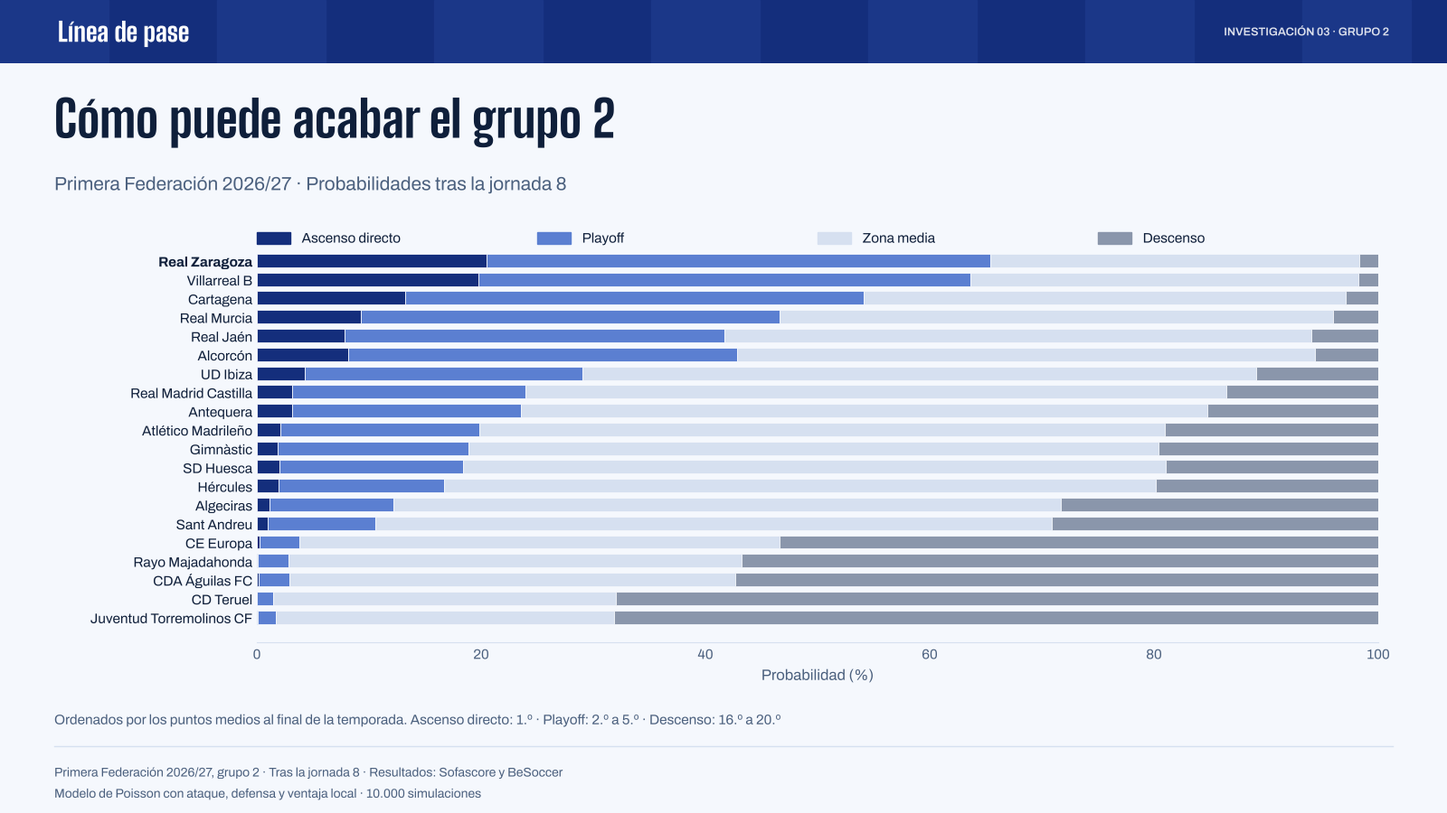
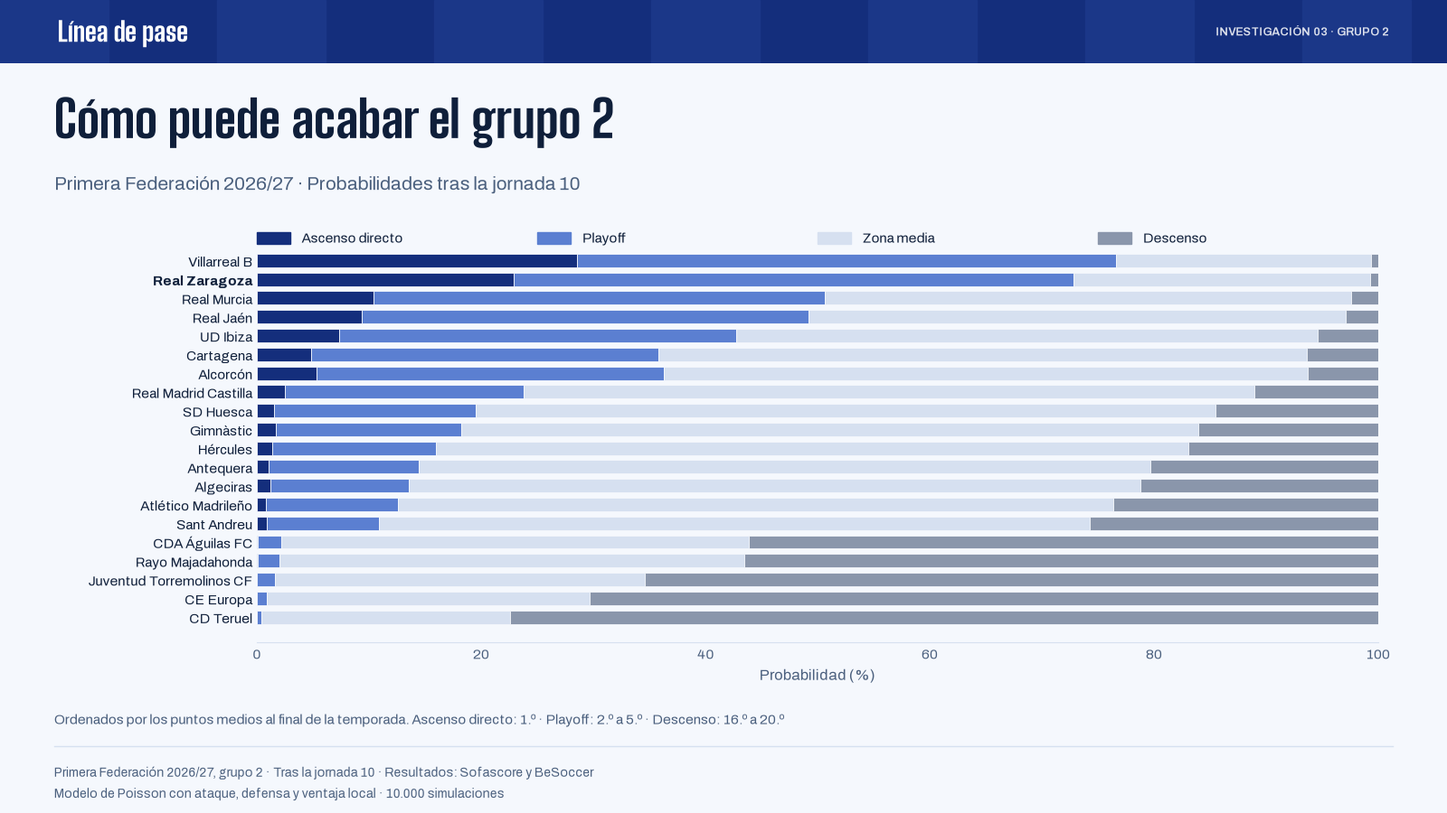
Actualiza simulación Monte Carlo tras J10

diff --git a/proyectos/real-zaragoza/simulacion.html b/proyectos/real-zaragoza/simulacion.html
@@ -7,8 +7,8 @@
 <!-- /Consentimiento de analítica -->
 <meta charset="utf-8">
 <meta name="viewport" content="width=device-width, initial-scale=1, viewport-fit=cover">
-<title>Simulación del grupo 2 (J8) · Línea de pase</title>
-<meta name="description" content="10.000 simulaciones del resto de la temporada del grupo 2 de Primera Federación: probabilidades de ascenso, playoff y descenso tras la jornada 8.">
+<title>Simulación del grupo 2 (J10) · Línea de pase</title>
+<meta name="description" content="10.000 simulaciones del resto de la temporada del grupo 2 de Primera Federación: probabilidades de ascenso, playoff y descenso tras la jornada 10.">
 <link rel="preconnect" href="https://fonts.googleapis.com">
 <link rel="preconnect" href="https://fonts.gstatic.com" crossorigin>
 <link rel="stylesheet" href="https://fonts.googleapis.com/css2?family=Archivo:wght@400;500;600;700&family=Big+Shoulders+Display:wght@700;800&display=swap">
@@ -22,34 +22,33 @@
 <script src="../../assets/experiencia.js?v=20261027visual4" defer></script>
 
 
-<meta property="og:title" content="Simulación del grupo 2 (J8)">
-<meta property="og:description" content="10.000 simulaciones del resto de la temporada del grupo 2 de Primera Federación: probabilidades de ascenso, playoff y descenso tras la jornada 8.">
-<meta property="og:image" content="https://lineadepase.com/assets/compartir/simulacion-grupo-2-social-resumen.jpg">
-<link rel="stylesheet" href="../../assets/investigacion.css?v=20261021fotos">
-<link rel="stylesheet" href="../../assets/fotografia-editorial.css?v=20261029mobile1">
-
-<meta name="imagen-editorial" content="proyectos/real-zaragoza/graficos/simulacion/compartir.png"><link rel="stylesheet" href="../../assets/ideas-editoriales.css?v=20261027a">
-<meta name="grafico-contexto" content="Datos hasta 2026-10-31 · Estadísticas de Sofascore y fuentes del club; goles anotados a partir de resúmenes. Detalle y límites en el análisis.">
+<link rel="stylesheet" href="../../assets/ideas-editoriales.css?v=20261027a">
+<meta name="grafico-contexto" content="Datos hasta 2026-10-31 · Sofascore y fuentes complementarias de xG; cobertura y método en el análisis.">
 <!-- SEO: generado por herramientas/actualizar_seo.py -->
-<link rel="canonical" href="https://lineadepase.com/proyectos/real-zaragoza/simulacion.html">
+<link rel="canonical" href="https://lineadepase.com/proyectos/real-zaragoza/grupo-2.html">
 <meta property="og:type" content="website">
 <meta property="og:locale" content="es_ES">
 <meta property="og:site_name" content="Línea de pase">
-
-
-<meta property="og:url" content="https://lineadepase.com/proyectos/real-zaragoza/simulacion.html">
-
-<meta property="og:image:type" content="image/jpeg">
+<meta property="og:title" content="Grupo 2 de Primera Federación · Línea de pase">
+<meta property="og:description" content="Los 20 equipos del grupo 2 de Primera Federación con xG, puntos esperados, tiros y posesión, con fuentes y cobertura documentadas.">
+<meta property="og:url" content="https://lineadepase.com/proyectos/real-zaragoza/grupo-2.html">
+<meta property="og:image" content="https://lineadepase.com/assets/compartir/proyectos-real-zaragoza-grupo-2.png">
+<meta property="og:image:type" content="image/png">
 <meta property="og:image:width" content="1200">
 <meta property="og:image:height" content="630">
-<meta property="og:image:alt" content="Simulación del grupo 2 (J8) · Línea de pase">
+<meta property="og:image:alt" content="Grupo 2 de Primera Federación · Línea de pase">
 <meta name="twitter:card" content="summary_large_image">
-<meta name="twitter:title" content="Simulación del grupo 2 (J8) · Línea de pase">
-<meta name="twitter:description" content="10.000 simulaciones del resto de la temporada del grupo 2 de Primera Federación: probabilidades de ascenso, playoff y descenso tras la jornada 8.">
-<meta name="twitter:image" content="https://lineadepase.com/assets/compartir/simulacion-grupo-2-social-resumen.jpg">
-<meta name="twitter:image:alt" content="Simulación del grupo 2 (J8) · Línea de pase">
-<script type="application/ld+json">{"@context": "https://schema.org", "@graph": [{"@type": "BreadcrumbList", "itemListElement": [{"@type": "ListItem", "position": 1, "name": "Inicio", "item": "https://lineadepase.com/"}, {"@type": "ListItem", "position": 2, "name": "Proyectos", "item": "https://lineadepase.com/proyectos/"}, {"@type": "ListItem", "position": 3, "name": "Real Zaragoza", "item": "https://lineadepase.com/proyectos/real-zaragoza/"}, {"@type": "ListItem", "position": 4, "name": "Simulación del grupo 2 (J8)", "item": "https://lineadepase.com/proyectos/real-zaragoza/simulacion.html"}]}, {"@type": "Article", "@id": "https://lineadepase.com/proyectos/real-zaragoza/simulacion.html#analisis", "headline": "Simulación del grupo 2 (J8)", "description": "10.000 simulaciones del resto de la temporada del grupo 2 de Primera Federación: probabilidades de ascenso, playoff y descenso tras la jornada 8.", "image": ["https://lineadepase.com/assets/compartir/simulacion-grupo-2-social-resumen.jpg"], "inLanguage": "es", "mainEntityOfPage": "https://lineadepase.com/proyectos/real-zaragoza/simulacion.html", "author": {"@type": "Person", "name": "Ángel Marqueta Alonso", "url": "https://lineadepase.com/sobre-mi/"}}]}</script>
+<meta name="twitter:title" content="Grupo 2 de Primera Federación · Línea de pase">
+<meta name="twitter:description" content="Los 20 equipos del grupo 2 de Primera Federación con xG, puntos esperados, tiros y posesión, con fuentes y cobertura documentadas.">
+<meta name="twitter:image" content="https://lineadepase.com/assets/compartir/proyectos-real-zaragoza-grupo-2.png">
+<meta name="twitter:image:alt" content="Grupo 2 de Primera Federación · Línea de pase">
+<script type="application/ld+json">{"@context": "https://schema.org", "@graph": [{"@type": "BreadcrumbList", "itemListElement": [{"@type": "ListItem", "position": 1, "name": "Inicio", "item": "https://lineadepase.com/"}, {"@type": "ListItem", "position": 2, "name": "Proyectos", "item": "https://lineadepase.com/proyectos/"}, {"@type": "ListItem", "position": 3, "name": "Real Zaragoza", "item": "https://lineadepase.com/proyectos/real-zaragoza/"}, {"@type": "ListItem", "position": 4, "name": "Grupo 2 de Primera Federación", "item": "https://lineadepase.com/proyectos/real-zaragoza/grupo-2.html"}]}, {"@type": "Article", "@id": "https://lineadepase.com/proyectos/real-zaragoza/grupo-2.html#analisis", "headline": "Grupo 2 de Primera Federación", "description": "Los 20 equipos del grupo 2 de Primera Federación con xG, puntos esperados, tiros y posesión, con fuentes y cobertura documentadas.", "image": ["https://lineadepase.com/assets/compartir/proyectos-real-zaragoza-grupo-2.png"], "inLanguage": "es", "mainEntityOfPage": "https://lineadepase.com/proyectos/real-zaragoza/grupo-2.html", "author": {"@type": "Person", "name": "Ángel Marqueta Alonso", "url": "https://lineadepase.com/sobre-mi/"}}]}</script>
 <!-- /SEO -->
+<meta property="og:title" content="Simulación del grupo 2 (J10)">
+<meta property="og:description" content="10.000 simulaciones del resto de la temporada del grupo 2 de Primera Federación: probabilidades de ascenso, playoff y descenso tras la jornada 10.">
+<meta property="og:image" content="https://lineadepase.com/proyectos/real-zaragoza/graficos/simulacion/compartir.png">
+<link rel="stylesheet" href="../../assets/investigacion.css?v=20261021fotos">
+<link rel="stylesheet" href="../../assets/fotografia-editorial.css?v=20261021b">
 </head>
 <body>
 <header class="cabecera">
@@ -62,47 +61,48 @@
   </div>
 </header>
 
-<main class="envoltorio"><nav class="acciones-articulo" aria-label="Compartir o imprimir este análisis"><button class="boton" type="button" data-compartir-pagina>Compartir análisis</button><a class="boton" href="graficos/simulacion/compartir.png" target="_blank" rel="noopener">Abrir imagen para compartir</a><button class="boton" type="button" data-imprimir-pagina>Imprimir / Guardar en PDF</button><span class="estado-acciones-articulo" role="status" aria-live="polite"></span></nav><p class="migas"><a href="../">Proyectos</a> / <a href="./">Real Zaragoza 2026/27</a> / <a href="grupo-2.html">Primera Federación · Grupo 2</a> / Simulación</p>
+<main class="envoltorio">
+  <p class="migas"><a href="../index.html">Proyectos</a> / <a href="index.html">Real Zaragoza 2026/27</a> / <a href="grupo-2.html">Primera Federación · Grupo 2</a> / Simulación</p>
   <nav class="pestanas" aria-label="Secciones del seguimiento"><a href="./">Resumen</a><a href="previa.html">Previa</a><a href="evolucion.html">Evolución</a><a href="plantilla.html">Plantilla</a><a href="jornadas.html">Jornadas</a><a href="grupo-2.html" aria-current="page">Primera Federación · Grupo 2</a></nav>
   <section class="cab-proyecto">
     <p class="etiqueta">Investigación · Simulación Monte Carlo</p>
     <h1>¿Y si el grupo 2 se jugara 10.000 veces?</h1>
-    <p class="entradilla">Este estudio simula 10.000 veces el resto de la temporada de Primera Federación con un modelo de goles ajustado a los resultados. Tras la jornada 8, el Real Zaragoza acaba entre los cinco primeros en el 65 % de las simulaciones.</p>
+    <p class="entradilla">Este estudio simula 10.000 veces el resto de la temporada de Primera Federación con un modelo de goles ajustado a los resultados. Tras la jornada 10, el Real Zaragoza acaba entre los cinco primeros en el 73 % de las simulaciones.</p>
     <dl class="ficha-tecnica">
       <div><dt>Pregunta</dt><dd>¿Qué probabilidad tiene cada equipo de ascender, jugar el playoff o descender?</dd></div>
-      <div><dt>Datos</dt><dd>Resultados de los 80 partidos jugados · 300 partidos pendientes</dd></div>
+      <div><dt>Datos</dt><dd>Resultados de los 100 partidos jugados · 280 partidos pendientes</dd></div>
       <div><dt>Herramientas</dt><dd>Python (pandas, NumPy, SciPy) · <a href="https://github.com/lineadepase/lineadepase.github.io/tree/main/analisis/grupo2-simulacion">código y datos</a></dd></div>
     </dl>
   </section>
 
-  <figure class="figura foto foto-cabecera"><img src="graficos/simulacion/portada_ia.jpg" width="1122" height="1402" alt="Un león con la camiseta azul y blanca sube una escalera de 20 peldaños numerados hacia la cima, rodeado de dados." loading="lazy" style="max-width:min(560px,100%);margin-inline:auto" srcset="../../assets/adaptadas/portada_ia-7744f90f1a-480.webp 480w, ../../assets/adaptadas/portada_ia-7744f90f1a-800.webp 800w, ../../assets/adaptadas/portada_ia-7744f90f1a-1122.webp 1122w" sizes="(max-width: 640px) calc(100vw - 48px), 800px"><figcaption>Ilustración generada con IA.</figcaption></figure>
+  <figure class="figura foto foto-cabecera"><img src="graficos/simulacion/portada_ia.jpg" width="1122" height="1402" alt="Un león con la camiseta azul y blanca sube una escalera de 20 peldaños numerados hacia la cima, rodeado de dados." loading="lazy" style="max-width:min(560px,100%);margin-inline:auto"><figcaption>Imagen recreada con IA.</figcaption></figure>
 
   <section class="seccion lectura">
     <p class="etiqueta">Resultados</p>
-    <h2>Favorito, pero lejos de estar decidido</h2>
-    <p>El Zaragoza termina primero en el <strong>20 %</strong> de las simulaciones y entre el segundo y el quinto en el <strong>45 %</strong>. Es el equipo con más opciones del grupo, pero en el 35 % de las temporadas simuladas se queda fuera de los cinco primeros. El riesgo de descenso es del 2 %.</p>
-    <p>En 8 de cada 10 simulaciones acaba con entre 52 y 75 puntos. En aquel corte quedaban 30 jornadas por jugar; la tabla reflejaba un tramo todavía corto de la temporada.</p>
+    <h2>Todo por decidir</h2>
+    <p>El Zaragoza termina primero en el <strong>23 %</strong> de las simulaciones y entre el segundo y el quinto en el <strong>50 %</strong>. Aun así, en el 27 % de las temporadas simuladas se queda fuera de los cinco primeros. El riesgo de descenso es del 1 %.</p>
+    <p>En 8 de cada 10 simulaciones acaba con entre 54 y 76 puntos. Quedan 28 jornadas: la tabla de hoy cuenta, pero todavía queda casi toda la temporada.</p>
   </section>
 
-  <figure class="figura"><img src="graficos/simulacion/05_puesto_zaragoza_web.png" width="1600" height="900" alt="Probabilidad de cada puesto final del Real Zaragoza. El más probable es el 1.º, con un 20 %." srcset="../../assets/adaptadas/05_puesto_zaragoza_web-5961b46716-480.webp 480w, ../../assets/adaptadas/05_puesto_zaragoza_web-5961b46716-800.webp 800w, ../../assets/adaptadas/05_puesto_zaragoza_web-5961b46716-1200.webp 1200w, ../../assets/adaptadas/05_puesto_zaragoza_web-5961b46716-1600.webp 1600w" sizes="(max-width: 640px) calc(100vw - 48px), 800px"><figcaption>Probabilidad de cada puesto final del Real Zaragoza.</figcaption></figure>
+  <figure class="figura"><img src="graficos/simulacion/05_puesto_zaragoza_web.png" width="1600" height="900" alt="Probabilidad de cada puesto final del Real Zaragoza. El más probable es el 1.º, con un 23 %."><figcaption>Probabilidad de cada puesto final del Real Zaragoza.</figcaption></figure>
 
   <section class="seccion lectura">
     <h2>Cómo ha cambiado</h2>
-    <p>Con los datos de la jornada 3, la probabilidad de acabar entre los cinco primeros era del 30 %. Los resultados desde entonces la han llevado al 65 %.</p>
+    <p>Con los datos de la jornada 3, la probabilidad de acabar entre los cinco primeros era del 30 %. Los resultados desde entonces la han llevado al 73 %.</p>
   </section>
 
-  <figure class="figura"><img loading="lazy" src="graficos/simulacion/03_evolucion_zaragoza_instagram.png" width="1080" height="1350" alt="Evolución jornada a jornada de la probabilidad del Real Zaragoza de ascender directamente y de acabar entre los cinco primeros." style="max-width:min(560px,100%);margin-inline:auto" srcset="../../assets/adaptadas/03_evolucion_zaragoza_instagram-90a578dab7-480.webp 480w, ../../assets/adaptadas/03_evolucion_zaragoza_instagram-90a578dab7-800.webp 800w, ../../assets/adaptadas/03_evolucion_zaragoza_instagram-90a578dab7-1080.webp 1080w" sizes="(max-width: 640px) calc(100vw - 48px), 800px"></figure>
+  <figure class="figura"><img loading="lazy" src="graficos/simulacion/03_evolucion_zaragoza_instagram.png" width="1080" height="1350" alt="Evolución jornada a jornada de la probabilidad del Real Zaragoza de ascender directamente y de acabar entre los cinco primeros." style="max-width:min(560px,100%);margin-inline:auto"></figure>
 
-  <figure class="figura"><img loading="lazy" src="graficos/simulacion/04_veinte_equipos_web.png" width="1600" height="900" alt="Probabilidades de ascenso directo, playoff, zona media y descenso de los 20 equipos del grupo 2." srcset="../../assets/adaptadas/04_veinte_equipos_web-24b0aca208-480.webp 480w, ../../assets/adaptadas/04_veinte_equipos_web-24b0aca208-800.webp 800w, ../../assets/adaptadas/04_veinte_equipos_web-24b0aca208-1200.webp 1200w, ../../assets/adaptadas/04_veinte_equipos_web-24b0aca208-1600.webp 1600w" sizes="(max-width: 640px) calc(100vw - 48px), 800px"><figcaption>Los 20 equipos, ordenados por los puntos medios al final de la temporada.</figcaption></figure>
+  <figure class="figura"><img loading="lazy" src="graficos/simulacion/04_veinte_equipos_web.png" width="1600" height="900" alt="Probabilidades de ascenso directo, playoff, zona media y descenso de los 20 equipos del grupo 2."><figcaption>Los 20 equipos, ordenados por los puntos medios al final de la temporada.</figcaption></figure>
 
-  <div class="tabla-editorial" role="region" aria-label="Probabilidades de los 20 equipos, tabla desplazable" tabindex="0"><table><caption>Probabilidades al final de la temporada</caption><thead><tr><th scope="col" class="num">#</th><th scope="col">Equipo</th><th scope="col" class="num">Puntos medios</th><th scope="col" class="num">Ascenso directo</th><th scope="col" class="num">Playoff</th><th scope="col" class="num">Descenso</th></tr></thead><tbody><tr class="destacada"><td class="num">1</td><th scope="row">Real Zaragoza</th><td class="num">63,7</td><td class="num">20 %</td><td class="num">45 %</td><td class="num">2 %</td></tr><tr><td class="num">2</td><th scope="row">Villarreal B</th><td class="num">63,4</td><td class="num">20 %</td><td class="num">44 %</td><td class="num">2 %</td></tr><tr><td class="num">3</td><th scope="row">Cartagena</th><td class="num">61,0</td><td class="num">13 %</td><td class="num">41 %</td><td class="num">3 %</td></tr><tr><td class="num">4</td><th scope="row">Real Murcia</th><td class="num">59,7</td><td class="num">9 %</td><td class="num">37 %</td><td class="num">4 %</td></tr><tr><td class="num">5</td><th scope="row">Real Jaén</th><td class="num">58,3</td><td class="num">8 %</td><td class="num">34 %</td><td class="num">6 %</td></tr><tr><td class="num">6</td><th scope="row">Alcorcón</th><td class="num">58,3</td><td class="num">8 %</td><td class="num">35 %</td><td class="num">6 %</td></tr><tr><td class="num">7</td><th scope="row">UD Ibiza</th><td class="num">55,4</td><td class="num">4 %</td><td class="num">25 %</td><td class="num">11 %</td></tr><tr><td class="num">8</td><th scope="row">Real Madrid Castilla</th><td class="num">53,9</td><td class="num">3 %</td><td class="num">21 %</td><td class="num">14 %</td></tr><tr><td class="num">9</td><th scope="row">Antequera</th><td class="num">53,7</td><td class="num">3 %</td><td class="num">20 %</td><td class="num">15 %</td></tr><tr><td class="num">10</td><th scope="row">Atlético Madrileño</th><td class="num">52,2</td><td class="num">2 %</td><td class="num">18 %</td><td class="num">19 %</td></tr><tr><td class="num">11</td><th scope="row">Gimnàstic</th><td class="num">52,1</td><td class="num">2 %</td><td class="num">17 %</td><td class="num">20 %</td></tr><tr><td class="num">12</td><th scope="row">SD Huesca</th><td class="num">52,0</td><td class="num">2 %</td><td class="num">16 %</td><td class="num">19 %</td></tr><tr><td class="num">13</td><th scope="row">Hércules</th><td class="num">51,7</td><td class="num">2 %</td><td class="num">15 %</td><td class="num">20 %</td></tr><tr><td class="num">14</td><th scope="row">Algeciras</th><td class="num">49,6</td><td class="num">1 %</td><td class="num">11 %</td><td class="num">28 %</td></tr><tr><td class="num">15</td><th scope="row">Sant Andreu</th><td class="num">48,9</td><td class="num">1 %</td><td class="num">10 %</td><td class="num">29 %</td></tr><tr><td class="num">16</td><th scope="row">CE Europa</th><td class="num">43,7</td><td class="num"><1 %</td><td class="num">3 %</td><td class="num">53 %</td></tr><tr><td class="num">17</td><th scope="row">Rayo Majadahonda</th><td class="num">42,8</td><td class="num"><1 %</td><td class="num">3 %</td><td class="num">57 %</td></tr><tr><td class="num">18</td><th scope="row">CDA Águilas FC</th><td class="num">42,7</td><td class="num"><1 %</td><td class="num">3 %</td><td class="num">57 %</td></tr><tr><td class="num">19</td><th scope="row">CD Teruel</th><td class="num">40,2</td><td class="num"><1 %</td><td class="num">1 %</td><td class="num">68 %</td></tr><tr><td class="num">20</td><th scope="row">Juventud Torremolinos CF</th><td class="num">40,0</td><td class="num"><1 %</td><td class="num">2 %</td><td class="num">68 %</td></tr></tbody></table></div>
+  <div class="tabla-editorial" role="region" aria-label="Probabilidades de los 20 equipos, tabla desplazable" tabindex="0"><table><caption>Probabilidades al final de la temporada</caption><thead><tr><th scope="col" class="num">#</th><th scope="col">Equipo</th><th scope="col" class="num">Puntos medios</th><th scope="col" class="num">Ascenso directo</th><th scope="col" class="num">Playoff</th><th scope="col" class="num">Descenso</th></tr></thead><tbody><tr><td class="num">1</td><th scope="row">Villarreal B</th><td class="num">66,2</td><td class="num">29 %</td><td class="num">48 %</td><td class="num">1 %</td></tr><tr class="destacada"><td class="num">2</td><th scope="row">Real Zaragoza</th><td class="num">65,0</td><td class="num">23 %</td><td class="num">50 %</td><td class="num">1 %</td></tr><tr><td class="num">3</td><th scope="row">Real Murcia</th><td class="num">60,4</td><td class="num">10 %</td><td class="num">40 %</td><td class="num">2 %</td></tr><tr><td class="num">4</td><th scope="row">Real Jaén</th><td class="num">60,0</td><td class="num">9 %</td><td class="num">40 %</td><td class="num">3 %</td></tr><tr><td class="num">5</td><th scope="row">UD Ibiza</th><td class="num">58,4</td><td class="num">7 %</td><td class="num">35 %</td><td class="num">5 %</td></tr><tr><td class="num">6</td><th scope="row">Cartagena</th><td class="num">57,0</td><td class="num">5 %</td><td class="num">31 %</td><td class="num">6 %</td></tr><tr><td class="num">7</td><th scope="row">Alcorcón</th><td class="num">57,0</td><td class="num">5 %</td><td class="num">31 %</td><td class="num">6 %</td></tr><tr><td class="num">8</td><th scope="row">Real Madrid Castilla</th><td class="num">54,2</td><td class="num">3 %</td><td class="num">21 %</td><td class="num">11 %</td></tr><tr><td class="num">9</td><th scope="row">SD Huesca</th><td class="num">52,8</td><td class="num">2 %</td><td class="num">18 %</td><td class="num">14 %</td></tr><tr><td class="num">10</td><th scope="row">Gimnàstic</th><td class="num">52,4</td><td class="num">2 %</td><td class="num">17 %</td><td class="num">16 %</td></tr><tr><td class="num">11</td><th scope="row">Hércules</th><td class="num">51,9</td><td class="num">1 %</td><td class="num">15 %</td><td class="num">17 %</td></tr><tr><td class="num">12</td><th scope="row">Antequera</th><td class="num">51,2</td><td class="num">1 %</td><td class="num">13 %</td><td class="num">20 %</td></tr><tr><td class="num">13</td><th scope="row">Algeciras</th><td class="num">50,8</td><td class="num">1 %</td><td class="num">12 %</td><td class="num">21 %</td></tr><tr><td class="num">14</td><th scope="row">Atlético Madrileño</th><td class="num">50,2</td><td class="num">1 %</td><td class="num">12 %</td><td class="num">24 %</td></tr><tr><td class="num">15</td><th scope="row">Sant Andreu</th><td class="num">49,5</td><td class="num">1 %</td><td class="num">10 %</td><td class="num">26 %</td></tr><tr><td class="num">16</td><th scope="row">CDA Águilas FC</th><td class="num">43,0</td><td class="num"><1 %</td><td class="num">2 %</td><td class="num">56 %</td></tr><tr><td class="num">17</td><th scope="row">Rayo Majadahonda</th><td class="num">42,8</td><td class="num"><1 %</td><td class="num">2 %</td><td class="num">57 %</td></tr><tr><td class="num">18</td><th scope="row">Juventud Torremolinos CF</th><td class="num">41,1</td><td class="num"><1 %</td><td class="num">2 %</td><td class="num">65 %</td></tr><tr><td class="num">19</td><th scope="row">CE Europa</th><td class="num">39,9</td><td class="num"><1 %</td><td class="num">1 %</td><td class="num">70 %</td></tr><tr><td class="num">20</td><th scope="row">CD Teruel</th><td class="num">38,3</td><td class="num">0 %</td><td class="num"><1 %</td><td class="num">77 %</td></tr></tbody></table></div>
 
   <section class="seccion lectura">
     <p class="etiqueta">Método</p>
     <h2>Un modelo de goles y 10.000 temporadas</h2>
     <p>Cada equipo tiene una fuerza de ataque y otra de defensa, y el local juega con ventaja. Los goles de cada equipo en un partido siguen una distribución de Poisson cuya media depende de su ataque, de la defensa del rival y de quién juega en casa. Es el modelo clásico de Maher, el punto de partida de casi todos los modelos de resultados.</p>
-    <p>Con 8 jornadas cada equipo ha jugado 8 partidos, y una racha corta puede engañar. Por eso las fuerzas se acercan a la media del grupo salvo que los resultados lo justifiquen. Cuánto se acercan se decide con validación cruzada: el modelo se ajusta dejando fuera una jornada cada vez y se elige la opción que mejor predice la jornada que falta. La respuesta fue acercarlas mucho: a estas alturas, los resultados dicen poco de la fuerza real de cada equipo.</p>
-    <p>En cada simulación se sortean unas fuerzas dentro de su margen de incertidumbre, se juegan los 300 partidos pendientes y la tabla se ordena con el reglamento de la competición: puntos, puntos y diferencia de goles entre los empatados, diferencia general y goles a favor. Antes de simular, el programa comprueba que los resultados reproducen exactamente la clasificación publicada tras la jornada 8; si no, se detiene.</p>
+    <p>Con 10 jornadas cada equipo ha jugado 10 partidos, y una racha corta puede engañar. Por eso las fuerzas se acercan a la media del grupo salvo que los resultados lo justifiquen. Cuánto se acercan se decide con validación cruzada: el modelo se ajusta dejando fuera una jornada cada vez y se elige la opción que mejor predice la jornada que falta. La respuesta fue acercarlas mucho: a estas alturas, los resultados dicen poco de la fuerza real de cada equipo.</p>
+    <p>En cada simulación se sortean unas fuerzas dentro de su margen de incertidumbre, se juegan los 280 partidos pendientes y la tabla se ordena con el reglamento de la competición: puntos, puntos y diferencia de goles entre los empatados, diferencia general y goles a favor. Antes de simular, el programa comprueba que los resultados reproducen exactamente la clasificación publicada tras la jornada 10; si no, se detiene.</p>
     <h2>Lo que la simulación no sabe</h2>
     <ul>
       <li>No sabe de lesiones, fichajes, sanciones ni cambios de entrenador.</li>
@@ -110,7 +110,7 @@
       <li>El juego limpio y el partido de desempate no se pueden simular: si todo lo demás coincide, se sortea.</li>
       <li>Una probabilidad no es un pronóstico: un 20 % ocurre una de cada cinco veces.</li>
     </ul>
-    <p>Esta simulación refleja la clasificación tras la jornada 8 y no incorpora la jornada 9.</p>
+    <p>Se actualiza después de cada jornada.</p>
   </section>
 
   <section class="seccion lectura">
@@ -118,9 +118,9 @@
     <h2>Datos, código y comprobaciones</h2>
     <p>Siete pruebas automáticas verifican el cálculo de la clasificación, los desempates a dos y a tres, las probabilidades de cada resultado y que el modelo distingue a un equipo fuerte en una liga inventada.</p>
     <p><a class="boton" href="https://github.com/lineadepase/lineadepase.github.io/tree/main/analisis/grupo2-simulacion">Ver el código</a> · <a href="graficos/simulacion/probabilidades.csv" download>Descargar las probabilidades (CSV)</a></p>
-    <p>Resultados: Sofascore, contrastados con la clasificación de BeSoccer tras cada jornada. Reglamento: <a href="https://rfef.es/sites/default/files/2026-06/2._CNL_Primera_Federacion_FINAL.pdf">normas de competición de Primera Federación 2026/27</a> (ascenso del primero, playoff del segundo al quinto y descenso del 16.º al 20.º).</p>
+    <p>Resultados: Sofascore en las jornadas con datos estadísticos; los marcadores que faltan se completan con el archivo de resultados del seguimiento del Real Zaragoza y se contrastan con la <a href="https://rfef.es/es/noticias/viernes-de-goles-en-el-inicio-de-la-decima-jornada">RFEF</a>. Reglamento: <a href="https://rfef.es/sites/default/files/2026-06/2._CNL_Primera_Federacion_FINAL.pdf">normas de competición de Primera Federación 2026/27</a> (ascenso del primero, playoff del segundo al quinto y descenso del 16.º al 20.º).</p>
   </section>
-<!-- exploracion --><aside class="envoltorio lecturas" aria-labelledby="lecturas-relacionadas"><h2 id="lecturas-relacionadas">Sigue explorando</h2><div class="enlaces"><a class="boton" href="../../marcador-a-ciegas/">Probar el marcador a ciegas</a><a class="boton" href="../../partidos-espejo/">Explorar partidos espejo</a><a class="boton" href="../../balance-de-preguntas/">Ver el balance de preguntas</a><a class="boton" href="../../preguntas-del-partido/">Revisar las preguntas del partido</a><a class="boton" href="evolucion.html">Poner el partido en contexto</a><a class="boton" href="../../reloj-del-marcador/">Ver el tiempo de marcador</a><a class="boton" href="../../archivo/">Más análisis en el archivo</a><a class="boton" href="../../conceptos/">Entender los conceptos</a></div></aside><!-- /exploracion --></main>
+</main>
 
 <footer class="pie">
   <div class="envoltorio">

diff --git a/analisis/grupo2-simulacion/codigo/datos.py b/analisis/grupo2-simulacion/codigo/datos.py
@@ -5,6 +5,8 @@ La simulación solo usa resultados: quién jugó contra quién, en qué campo y
 cuántos goles marcó cada uno. Los lee del archivo que ya mantiene el
 seguimiento del Real Zaragoza (analisis/real-zaragoza/datos/entrada/
 grupo2_partidos.csv), del que aprovecha únicamente las columnas del resultado.
+Cuando la fuente estadística aún no tiene una jornada, completa sus marcadores
+con grupo2_resultados.csv.
 
 Antes de simular, compruebo que la clasificación que sale de esos resultados
 coincide punto por punto con la clasificación publicada tras la última jornada
@@ -21,8 +23,9 @@ RAIZ_WEB = Path(__file__).resolve().parents[3]
 ENTRADA = RAIZ_WEB / "analisis" / "real-zaragoza" / "datos" / "entrada"
 
 
-def leer_resultados(ruta=ENTRADA / "grupo2_partidos.csv"):
-    """Una fila por partido jugado, desde el punto de vista del equipo local."""
+def leer_resultados(ruta=ENTRADA / "grupo2_partidos.csv",
+                    ruta_resultados=ENTRADA / "grupo2_resultados.csv"):
+    """Resultados disponibles, completando jornadas ausentes sin duplicarlas."""
     filas = pd.read_csv(ruta)
     locales = filas[filas.sede == "Casa"]
     partidos = pd.DataFrame({
@@ -32,7 +35,29 @@ def leer_resultados(ruta=ENTRADA / "grupo2_partidos.csv"):
         "visitante": locales.rival,
         "goles_local": locales.goles_favor.astype(int),
         "goles_visitante": locales.goles_contra.astype(int),
-    }).sort_values(["jornada", "fecha", "local"]).reset_index(drop=True)
+    })
+
+    # Sofascore aún puede no ofrecer las estadísticas de una jornada recién
+    # terminada. El modelo solo necesita marcador y localía, así que incorpora
+    # los resultados de las jornadas posteriores a la última jornada estadística.
+    if ruta_resultados.exists():
+        resultados = pd.read_csv(ruta_resultados)
+        corte = int(partidos.jornada.max()) if not partidos.empty else 0
+        posteriores = resultados[resultados.jornada.astype(int) > corte]
+        if not posteriores.empty:
+            complementarios = pd.DataFrame({
+                "jornada": posteriores.jornada.astype(int),
+                "fecha": posteriores.fecha,
+                "local": posteriores.local,
+                "visitante": posteriores.visitante,
+                "goles_local": posteriores.goles_local.astype(int),
+                "goles_visitante": posteriores.goles_visitante.astype(int),
+            })
+            partidos = pd.concat([partidos, complementarios], ignore_index=True)
+
+    duplicados = partidos.duplicated(["jornada", "local", "visitante"])
+    assert not duplicados.any(), f"Hay partidos duplicados: {partidos.loc[duplicados].to_dict('records')}"
+    partidos = partidos.sort_values(["jornada", "fecha", "local"]).reset_index(drop=True)
     return partidos
 
 

diff --git a/analisis/grupo2-simulacion/codigo/web.py b/analisis/grupo2-simulacion/codigo/web.py
@@ -81,7 +81,7 @@ def main():
     </dl>
   </section>
 
-  <figure class="figura foto foto-cabecera"><img src="graficos/simulacion/portada_ia.jpg" width="1122" height="1402" alt="Un león con la camiseta azul y blanca sube una escalera de 20 peldaños numerados hacia la cima, rodeado de dados." loading="lazy" style="max-width:min(560px,100%);margin-inline:auto"><figcaption>Ilustración generada con IA.</figcaption></figure>
+  <figure class="figura foto foto-cabecera"><img src="graficos/simulacion/portada_ia.jpg" width="1122" height="1402" alt="Un león con la camiseta azul y blanca sube una escalera de 20 peldaños numerados hacia la cima, rodeado de dados." loading="lazy" style="max-width:min(560px,100%);margin-inline:auto"><figcaption>Imagen recreada con IA.</figcaption></figure>
 
   <section class="seccion lectura">
     <p class="etiqueta">Resultados</p>
@@ -124,7 +124,7 @@ def main():
     <h2>Datos, código y comprobaciones</h2>
     <p>Siete pruebas automáticas verifican el cálculo de la clasificación, los desempates a dos y a tres, las probabilidades de cada resultado y que el modelo distingue a un equipo fuerte en una liga inventada.</p>
     <p><a class="boton" href="{CODIGO_GITHUB}">Ver el código</a> · <a href="graficos/simulacion/probabilidades.csv" download>Descargar las probabilidades (CSV)</a></p>
-    <p>Resultados: Sofascore, contrastados con la clasificación de BeSoccer tras cada jornada. Reglamento: <a href="https://rfef.es/sites/default/files/2026-06/2._CNL_Primera_Federacion_FINAL.pdf">normas de competición de Primera Federación 2026/27</a> (ascenso del primero, playoff del segundo al quinto y descenso del 16.º al 20.º).</p>
+    <p>Resultados: Sofascore en las jornadas con datos estadísticos; los marcadores que faltan se completan con el archivo de resultados del seguimiento del Real Zaragoza y se contrastan con la <a href="https://rfef.es/es/noticias/viernes-de-goles-en-el-inicio-de-la-decima-jornada">RFEF</a>. Reglamento: <a href="https://rfef.es/sites/default/files/2026-06/2._CNL_Primera_Federacion_FINAL.pdf">normas de competición de Primera Federación 2026/27</a> (ascenso del primero, playoff del segundo al quinto y descenso del 16.º al 20.º).</p>
   </section>"""
     destino = escribir_pagina_zaragoza(
         "simulacion.html",

diff --git a/analisis/grupo2-simulacion/codigo/ejecutar.py b/analisis/grupo2-simulacion/codigo/ejecutar.py
@@ -14,6 +14,7 @@ Pasos:
 
 Se ejecuta en unos segundos; está pensado para repetirse después de cada jornada.
 """
+import argparse
 import json
 import platform
 from importlib import metadata
@@ -43,6 +44,11 @@ def referencia_sin_equipos(partidos, equipos):
 
 
 def main():
+    parser = argparse.ArgumentParser(description="Recalcula la simulación Monte Carlo del grupo 2.")
+    parser.add_argument("--sin-carrusel", action="store_true",
+                        help="no regenerar el carrusel de Instagram")
+    args = parser.parse_args()
+
     salida, doc = RAIZ / "datos" / "salida", RAIZ / "documentacion"
     salida.mkdir(parents=True, exist_ok=True)
     doc.mkdir(parents=True, exist_ok=True)
@@ -122,7 +128,8 @@ def main():
     (doc / "validacion.json").write_text(json.dumps(validacion, ensure_ascii=False, indent=2), encoding="utf-8")
 
     crear_figuras(tabla, distribucion, evolucion, jornada, SIMULACIONES, RAIZ / "graficos")
-    crear_carrusel(tabla, jornada, RAIZ / "graficos", RAIZ / "publicaciones" / "instagram")
+    if not args.sin_carrusel:
+        crear_carrusel(tabla, jornada, RAIZ / "graficos", RAIZ / "publicaciones" / "instagram")
 
     pd.set_option("display.width", 200)
     print(tabla[["equipo", "ascenso_directo", "playoff", "descenso", "puntos_medios"]].round(3).to_string(index=False))

diff --git a/analisis/grupo2-simulacion/README.md b/analisis/grupo2-simulacion/README.md
@@ -27,7 +27,7 @@ grupo2-simulacion/
 
 ## Datos
 
-Solo usa resultados: quién jugó contra quién, en qué campo y con qué marcador. Los lee de `analisis/real-zaragoza/datos/entrada/grupo2_partidos.csv`, el archivo que ya mantiene el seguimiento, y no utiliza ninguna otra columna. Antes de simular, comprueba que esos resultados reproducen exactamente la clasificación publicada tras la última jornada (`clasificacion.csv`); si no cuadra, se detiene.
+Solo usa resultados: quién jugó contra quién, en qué campo y con qué marcador. Lee los marcadores de `analisis/real-zaragoza/datos/entrada/grupo2_partidos.csv`, el archivo que ya mantiene el seguimiento, y completa las jornadas que falten con `grupo2_resultados.csv`. No utiliza ninguna otra estadística. Antes de simular, comprueba que los resultados reproducen exactamente los partidos jugados, goles a favor y en contra, y puntos de la clasificación tras la última jornada (`clasificacion.csv`); si no cuadra, se detiene.
 
 ## Método
 
@@ -43,7 +43,7 @@ Desde la raíz del repositorio, después de actualizar los resultados de la jorn
 
 ```
 pip install -r analisis/grupo2-simulacion/requirements.txt
-python analisis/grupo2-simulacion/codigo/ejecutar.py
+python analisis/grupo2-simulacion/codigo/ejecutar.py --sin-carrusel
 python analisis/grupo2-simulacion/codigo/web.py
 python -m pytest analisis/grupo2-simulacion/pruebas
 ```
